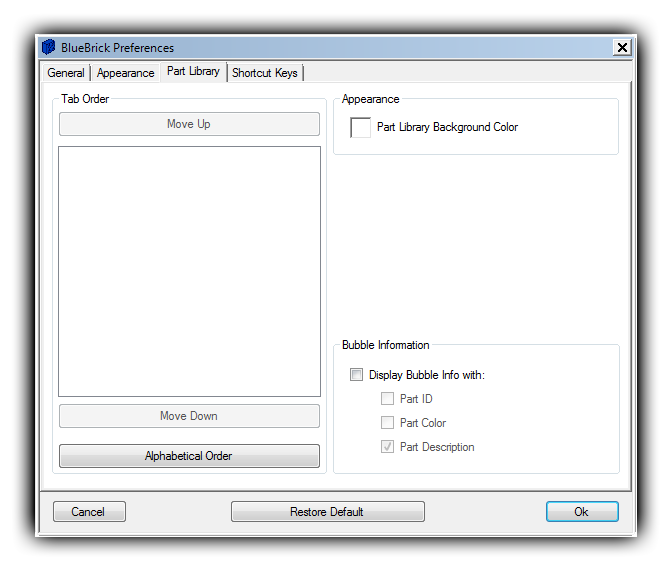
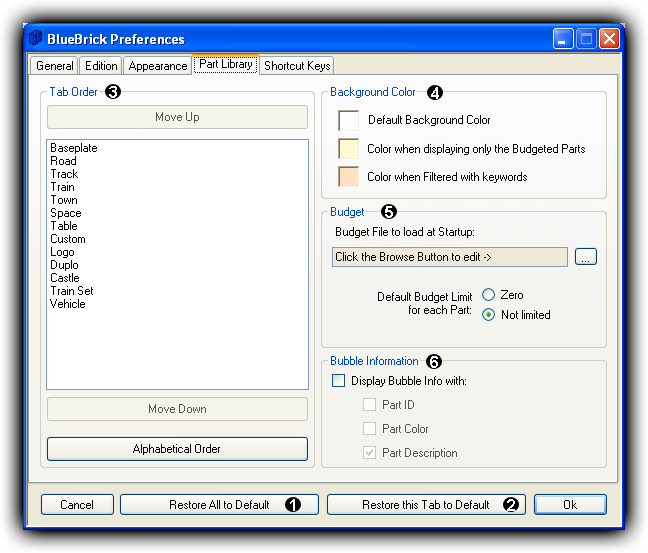
| update the part lib preference text plus screenshot in all languages

diff --git a/Help/en/Preferences_Part_Library.htm b/Help/en/Preferences_Part_Library.htm
@@ -1,22 +1,22 @@
-<HTML>
-<HEAD>
-<META NAME="keywords" CONTENT="BlueBrick, Help">
-<META NAME="description" CONTENT="The reference documentation for BlueBrick.">
-<META NAME="author" CONTENT="Alex McKenna">
-<LINK REL=StyleSheet HREF="../BlueBrick.css" TYPE="text/css" MEDIA=screen>
-<Title>Part Library Preferences</Title>
-</HEAD>
-<BODY>
-<H1>Part Library Preferences</H1>
-<BR>
-<CENTER><IMG SRC="Preferences_Part_Library.png"></CENTER>
+<html>
+<head>
+<meta name="keywords" content="BlueBrick, Help">
+<meta name="description" content="The reference documentation for BlueBrick.">
+<meta name="author" content="Alex McKenna">
+<link rel="StyleSheet" href="../BlueBrick.css" type="text/css" media="screen">
+<title>Part Library Preferences</title>
+</head>
+<body>
+<h1>Part Library Preferences</h1>
+<center><img SRC="Preferences_Part_Library.png"></center>
 
-<P>The <B>Tab Order</B> enables you to define in which order the parts folders/categories are placed above the part library window. This way you can sort them from left to right, from most used to least used. This can be done by selecting a category in the list and using the up or down buttons.  The list order from top to bottom represents left to right respectively above the parts library window.</P>
-</P>
+<p>The <b>Tab Order</b> frame <font class="RefNumber">3</font> enables you to define in which order the parts folders/categories are placed above the part library window. This way you can sort them from left to right, from most used to least used. This can be done by selecting a category in the list and using the "Move Up" and "Move Down" buttons. The list order from top to bottom represents left to right respectively above the parts library window. Pressing the "Alphabetical Order" button will sort the list in alphabetical order.</p>
 
-<P>The <B>Appearance</B> lets you change the background color of the library window.</P>
+<p>The <b>Background Color</b> frame <font class="RefNumber">4</font> lets you change the background color of the library window in three situations: first is the default color, then the color that should be used when you have loaded a Budget file and only the budgeted parts are listed (see the <a href="Budget.htm">Budget</a> section for more details) and finally the color used when you have filtered the library with some keywords (see <a href="Part_Library_How_to_Filter.htm">How to filter the Part Library</a> for more details). In case of both budget and keyword filtering, it is the keyword filter color that will be used. You can set the same color for the three situations if you don't like to see color change.</p>
 
-<P><B>Bubble Information</B> allows you to choose the information you will receive in the "tool tip" messages when you move the mouse over an icon in the parts library window. Note that in order to see the "tool tip" messages you must activate them by checking the "Display Bubble Info with:" checkbox or by right clicking on the part library window and selecting "Bubble Information".</P>
+<p>The <b>Budget</b> frame <font class="RefNumber">5</font> lets you specify a Budget file to load at startup (see the <a href="Budget.htm">Budget</a> section for more details). This is very convenient if you have created your own budget file with your actual LEGO<sup>&#174;</sup> set collection. You can also decide if a part that doesn't have a budget set should be considered as having a budget of 0 (meaning, you don't have that part in your collection and therefore should not be authorized to used), or on the contrary having an infinite budget (meaning that you have that part in so huge quantity that you don't bother add a limitation to it).</p>
 
-</BODY>
-</HTML>
+<p><b>Bubble Information</b> frame <font class="RefNumber">6</font> allows you to choose the information you will receive in the "tool tip" messages when you move the mouse over an icon in the parts library window. Note that in order to see the "tool tip" messages you must activate them by checking the "Display Bubble Info with:" checkbox or by right clicking on the part library window and selecting "Bubble Information".</p>
+
+</body>
+</html>

diff --git a/Help/fr/Preferences_Part_Library.htm b/Help/fr/Preferences_Part_Library.htm
@@ -1,22 +1,22 @@
-<HTML>
-<HEAD>
-<META NAME="keywords" CONTENT="BlueBrick, Help">
-<META NAME="description" CONTENT="The reference documentation for BlueBrick.">
-<META NAME="author" CONTENT="Alex McKenna">
-<LINK REL=StyleSheet HREF="../BlueBrick.css" TYPE="text/css" MEDIA=screen>
-<Title>Part Library Preferences</Title>
-</HEAD>
-<BODY>
-<H1>Part Library Preferences</H1>
-<BR>
-<CENTER><IMG SRC="Preferences_Part_Library.png"></CENTER>
+<html>
+<head>
+<meta name="keywords" content="BlueBrick, Help">
+<meta name="description" content="The reference documentation for BlueBrick.">
+<meta name="author" content="Alex McKenna">
+<link rel="StyleSheet" href="../BlueBrick.css" type="text/css" media="screen">
+<title>Part Library Preferences</title>
+</head>
+<body>
+<h1>Part Library Preferences</h1>
+<center><img SRC="Preferences_Part_Library.png"></center>
 
-<P>The <B>Tab Order</B> enables you to define in which order the parts folders/categories are placed above the part library window. This way you can sort them from left to right, from most used to least used. This can be done by selecting a category in the list and using the up or down buttons.  The list order from top to bottom represents left to right respectively above the parts library window.</P>
-</P>
+<p>The <b>Tab Order</b> frame <font class="RefNumber">3</font> enables you to define in which order the parts folders/categories are placed above the part library window. This way you can sort them from left to right, from most used to least used. This can be done by selecting a category in the list and using the "Move Up" and "Move Down" buttons. The list order from top to bottom represents left to right respectively above the parts library window. Pressing the "Alphabetical Order" button will sort the list in alphabetical order.</p>
 
-<P>The <B>Appearance</B> lets you change the background color of the library window.</P>
+<p>The <b>Background Color</b> frame <font class="RefNumber">4</font> lets you change the background color of the library window in three situations: first is the default color, then the color that should be used when you have loaded a Budget file and only the budgeted parts are listed (see the <a href="Budget.htm">Budget</a> section for more details) and finally the color used when you have filtered the library with some keywords (see <a href="Part_Library_How_to_Filter.htm">How to filter the Part Library</a> for more details). In case of both budget and keyword filtering, it is the keyword filter color that will be used. You can set the same color for the three situations if you don't like to see color change.</p>
 
-<P><B>Bubble Information</B> allows you to choose the information you will receive in the "tool tip" messages when you move the mouse over an icon in the parts library window. Note that in order to see the "tool tip" messages you must activate them by checking the "Display Bubble Info with:" checkbox or by right clicking on the part library window and selecting "Bubble Information".</P>
+<p>The <b>Budget</b> frame <font class="RefNumber">5</font> lets you specify a Budget file to load at startup (see the <a href="Budget.htm">Budget</a> section for more details). This is very convenient if you have created your own budget file with your actual LEGO<sup>&#174;</sup> set collection. You can also decide if a part that doesn't have a budget set should be considered as having a budget of 0 (meaning, you don't have that part in your collection and therefore should not be authorized to used), or on the contrary having an infinite budget (meaning that you have that part in so huge quantity that you don't bother add a limitation to it).</p>
 
-</BODY>
-</HTML>
+<p><b>Bubble Information</b> frame <font class="RefNumber">6</font> allows you to choose the information you will receive in the "tool tip" messages when you move the mouse over an icon in the parts library window. Note that in order to see the "tool tip" messages you must activate them by checking the "Display Bubble Info with:" checkbox or by right clicking on the part library window and selecting "Bubble Information".</p>
+
+</body>
+</html>

diff --git a/Help/es/Preferences_Part_Library.htm b/Help/es/Preferences_Part_Library.htm
@@ -6,19 +6,22 @@
 <META NAME="description" CONTENT="The reference documentation for BlueBrick.">
 <META NAME="author" CONTENT="Alex McKenna">
 <LINK REL=StyleSheet HREF="../BlueBrick.css" TYPE="text/css" MEDIA=screen>
-<Title>Opciones de apariencia</Title>
+<Title>Preferencias de la biblioteca de piezas</Title>
 </HEAD>
 <BODY>
 <H1>Preferencias de la biblioteca de piezas</H1>
 <BR>
 <CENTER><IMG SRC="Preferences_Part_Library.png"></CENTER>
 
-<P>El <B>orden de tabulaci&oacute;n</B> te permite definir en qu&eacute; orden se colocan las categor&iacute;as/carpetas de piezas encima del &aacute;rea de la biblioteca de piezas. De esta manera puedes ordenarlas de izquierda a derecha, de m&aacute;s a menos usado. Esto se puede hacer seleccionando una categor&iacute;a en la lista y usando los botones de flecha arriba y abajo.  El orden de la lista de arriba abajo representa el orden en el que aparecen las tabulaciones de izquierda a derecha.</P>
-</P>
+<P>El <B>orden de tabulaci&oacute;n</B> <font class="RefNumber">3</font> te permite definir en qu&eacute; orden se colocan las categor&iacute;as/carpetas de piezas encima del &aacute;rea de la biblioteca de piezas. De esta manera puedes ordenarlas de izquierda a derecha, de m&aacute;s a menos usado. Esto se puede hacer seleccionando una categor&iacute;a en la lista y usando los botones de flecha arriba y abajo.  El orden de la lista de arriba abajo representa el orden en el que aparecen las tabulaciones de izquierda a derecha. <DIV CLASS="ToTranslate">Pressing the "Alphabetical Order" button will sort the list in alphabetical order.</P>
 
-<P>La <B>Apariencia</B> te permite cambiar el color de fondo del &aacute;rea de la biblioteca de piezas.</P>
+<p>The <b>Background Color</b> frame <font class="RefNumber">4</font> lets you change the background color of the library window in three situations: first is the default color, then the color that should be used when you have loaded a Budget file and only the budgeted parts are listed (see the <a href="Budget.htm">Budget</a> section for more details) and finally the color used when you have filtered the library with some keywords (see <a href="Part_Library_How_to_Filter.htm">How to filter the Part Library</a> for more details). In case of both budget and keyword filtering, it is the keyword filter color that will be used. You can set the same color for the three situations if you don't like to see color change.</p>
 
-<P><B>Informaci&oacute;n de la burbuja</B> te permite elegir la informaci&oacute;n que recibir&aacute;s en el &quot;tool tip&quot; al colocar el puntero encima de un icono en el &aacute;rea de la biblioteca de piezas. Nota que para ver los mensajes de &quot;tool tip&quot; hay que activarlos haciendo clic derecho sobre el &aacute;rea de la biblioteca de piezas y seleccionando &quot;Informaci&oacute;n de la burbuja.</P>
+<p>The <b>Budget</b> frame <font class="RefNumber">5</font> lets you specify a Budget file to load at startup (see the <a href="Budget.htm">Budget</a> section for more details). This is very convenient if you have created your own budget file with your actual LEGO<sup>&#174;</sup> set collection. You can also decide if a part that doesn't have a budget set should be considered as having a budget of 0 (meaning, you don't have that part in your collection and therefore should not be authorized to used), or on the contrary having an infinite budget (meaning that you have that part in so huge quantity that you don't bother add a limitation to it).</p>
+
+</div>
+
+<P><B>Informaci&oacute;n de la burbuja</B> <font class="RefNumber">6</font> te permite elegir la informaci&oacute;n que recibir&aacute;s en el &quot;tool tip&quot; al colocar el puntero encima de un icono en el &aacute;rea de la biblioteca de piezas. Nota que para ver los mensajes de &quot;tool tip&quot; hay que activarlos haciendo clic derecho sobre el &aacute;rea de la biblioteca de piezas y seleccionando &quot;Informaci&oacute;n de la burbuja.</P>
 
 </BODY>
 </HTML>
